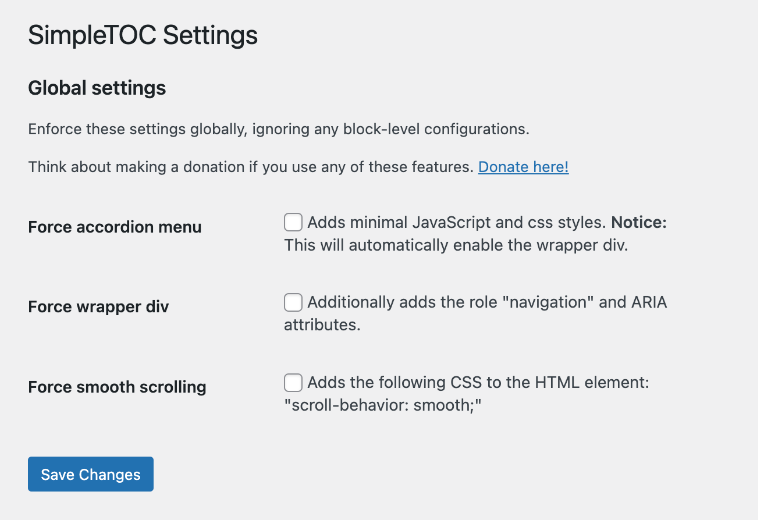
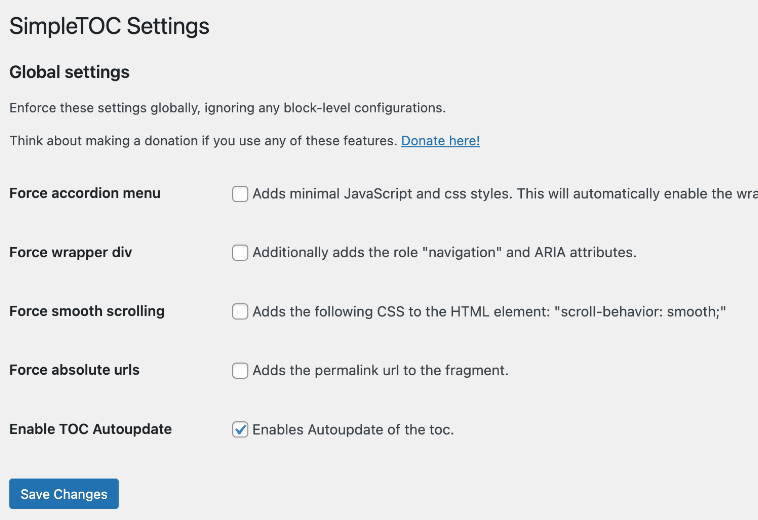
Added automatic refresh option

diff --git a/build/index.js b/build/index.js
@@ -1,1 +1,1 @@
-(()=>{"use strict";var e={n:t=>{var l=t&&t.__esModule?()=>t.default:()=>t;return e.d(l,{a:l}),l},d:(t,l)=>{for(var o in l)e.o(l,o)&&!e.o(t,o)&&Object.defineProperty(t,o,{enumerable:!0,get:l[o]})},o:(e,t)=>Object.prototype.hasOwnProperty.call(e,t)};const t=window.wp.element,l=window.wp.blocks,o=JSON.parse('{"$schema":"https://json.schemastore.org/block.json","apiVersion":2,"name":"simpletoc/toc","version":"6.3.0","title":"SimpleTOC","category":"layout","icon":"<svg clip-rule=\'evenodd\' fill-rule=\'evenodd\' stroke-linejoin=\'round\' stroke-miterlimit=\'2\' viewBox=\'0 0 500 500\' xmlns=\'http://www.w3.org/2000/svg\'><path d=\'m365.983 78.248c2.72-32.415 29.921-57.908 63.029-57.908 34.91 0 63.253 28.342 63.253 63.252s-28.343 63.252-63.253 63.252v269.582c0 25.232-20.485 45.718-45.718 45.718h-313.62c-25.233 0-45.719-20.486-45.719-45.718v-292.46c0-25.233 20.486-45.718 45.719-45.718z\' fill=\'#070D0D\'/><g fill=\'#fff\'><path d=\'m423.898 112.744v-24.188h-24.008v-10.108h24.008v-24.008h10.229v24.008h24.008v10.108h-24.008v24.188z\'/><path d=\'m120.04 403.105c-16.883 0-30.511-13.719-30.511-30.714 0-16.79 13.628-30.714 30.511-30.714 16.679 0 30.511 13.924 30.511 30.714 0 16.995-13.832 30.714-30.511 30.714z\'/><path d=\'m170.891 362.153h183.063v20.476h-183.063z\'/><path d=\'m120.04 300.725c-16.883 0-30.511-13.719-30.511-30.714 0-16.79 13.628-30.714 30.511-30.714 16.679 0 30.511 13.924 30.511 30.714 0 16.995-13.832 30.714-30.511 30.714z\'/><path d=\'m170.891 259.773h183.063v20.476h-183.063z\'/><path d=\'m120.04 198.345c-16.883 0-30.511-13.719-30.511-30.714 0-16.791 13.628-30.714 30.511-30.714 16.679 0 30.511 13.923 30.511 30.714 0 16.995-13.832 30.714-30.511 30.714z\'/><path d=\'m170.891 157.393h183.063v20.476h-183.063z\'/></g></svg>","keywords":["TOC","Table of Contents","SimpleTOC","Index"],"supports":{"align":["wide","full"]},"description":"Adds a Table of Contents.","attributes":{"no_title":{"type":"boolean","default":false},"title_level":{"type":"integer","default":2},"title_text":{"type":"string"},"use_ol":{"type":"boolean","default":false},"remove_indent":{"type":"boolean","default":false},"add_smooth":{"type":"boolean","default":false},"use_absolute_urls":{"type":"boolean","default":false},"max_level":{"type":"integer","default":6},"min_level":{"type":"integer","default":1},"updated":{"type":"integer"},"accordion":{"type":"boolean","default":false},"wrapper":{"type":"boolean","default":false},"autoupdate":{"type":"boolean","default":true}},"textdomain":"simpletoc","editorScript":"file:index.js","editorStyle":"file:index.css"}'),n=window.React,a=window.wp.i18n,i=window.wp.blockEditor,c=window.wp.editor,r=window.wp.serverSideRender;var s=e.n(r);const m=window.wp.primitives,d=(0,n.createElement)(m.SVG,{xmlns:"http://www.w3.org/2000/svg",viewBox:"0 0 24 24"},(0,n.createElement)(m.Path,{d:"M11.1 15.8H20v-1.5h-8.9v1.5zm0-8.6v1.5H20V7.2h-8.9zM6 13c-1.1 0-2 .9-2 2s.9 2 2 2 2-.9 2-2-.9-2-2-2zm0-7c-1.1 0-2 .9-2 2s.9 2 2 2 2-.9 2-2-.9-2-2-2z"})),v=(0,n.createElement)(m.SVG,{xmlns:"http://www.w3.org/2000/svg",viewBox:"0 0 24 24"},(0,n.createElement)(m.Path,{d:"M11.1 15.8H20v-1.5h-8.9v1.5zm0-8.6v1.5H20V7.2h-8.9zM5 6.7V10h1V5.3L3.8 6l.4 1 .8-.3zm-.4 5.7c-.3.1-.5.2-.7.3l.1 1.1c.2-.2.5-.4.8-.5.3-.1.6 0 .7.1.2.3 0 .8-.2 1.1-.5.8-.9 1.6-1.4 2.5h2.7v-1h-1c.3-.6.8-1.4.9-2.1.1-.3 0-.8-.2-1.1-.5-.6-1.3-.5-1.7-.4z"})),h=(0,n.createElement)(m.SVG,{xmlns:"http://www.w3.org/2000/svg",viewBox:"0 0 24 24"},(0,n.createElement)(m.Path,{d:"M4 7.2v1.5h16V7.2H4zm8 8.6h8v-1.5h-8v1.5zm-4-4.6l-4 4 4 4 1-1-3-3 3-3-1-1z"})),u=(0,n.createElement)(m.SVG,{xmlns:"http://www.w3.org/2000/svg",viewBox:"0 0 24 24"},(0,n.createElement)(m.Path,{d:"M4 7.2v1.5h16V7.2H4zm8 8.6h8v-1.5h-8v1.5zm-8-3.5l3 3-3 3 1 1 4-4-4-4-1 1z"})),p=(0,n.createElement)(m.SVG,{xmlns:"http://www.w3.org/2000/svg",viewBox:"0 0 24 24"},(0,n.createElement)(m.Path,{d:"m11.3 17.2-5-5c-.1-.1-.1-.3 0-.4l2.3-2.3-1.1-1-2.3 2.3c-.7.7-.7 1.8 0 2.5l5 5H7.5v1.5h5.3v-5.2h-1.5v2.6zm7.5-6.4-5-5h2.7V4.2h-5.2v5.2h1.5V6.8l5 5c.1.1.1.3 0 .4l-2.3 2.3 1.1 1.1 2.3-2.3c.6-.7.6-1.9-.1-2.5z"})),_=window.wp.components;function g({level:e,isPressed:l=!1}){const o={0:"M18.3 4H9.9v-.1l-.9.2c-2.3.4-4 2.4-4 4.8s1.7 4.4 4 4.8l.7.1V20h1.5V5.5h2.9V20h1.5V5.5h2.7V4z",1:"M9 5h2v10H9v-4H5v4H3V5h2v4h4V5zm6.6 0c-.6.9-1.5 1.7-2.6 2v1h2v7h2V5h-1.4z",2:"M7 5h2v10H7v-4H3v4H1V5h2v4h4V5zm8 8c.5-.4.6-.6 1.1-1.1.4-.4.8-.8 1.2-1.3.3-.4.6-.8.9-1.3.2-.4.3-.8.3-1.3 0-.4-.1-.9-.3-1.3-.2-.4-.4-.7-.8-1-.3-.3-.7-.5-1.2-.6-.5-.2-1-.2-1.5-.2-.4 0-.7 0-1.1.1-.3.1-.7.2-1 .3-.3.1-.6.3-.9.5-.3.2-.6.4-.8.7l1.2 1.2c.3-.3.6-.5 1-.7.4-.2.7-.3 1.2-.3s.9.1 1.3.4c.3.3.5.7.5 1.1 0 .4-.1.8-.4 1.1-.3.5-.6.9-1 1.2-.4.4-1 .9-1.6 1.4-.6.5-1.4 1.1-2.2 1.6V15h8v-2H15z",3:"M12.1 12.2c.4.3.8.5 1.2.7.4.2.9.3 1.4.3.5 0 1-.1 1.4-.3.3-.1.5-.5.5-.8 0-.2 0-.4-.1-.6-.1-.2-.3-.3-.5-.4-.3-.1-.7-.2-1-.3-.5-.1-1-.1-1.5-.1V9.1c.7.1 1.5-.1 2.2-.4.4-.2.6-.5.6-.9 0-.3-.1-.6-.4-.8-.3-.2-.7-.3-1.1-.3-.4 0-.8.1-1.1.3-.4.2-.7.4-1.1.6l-1.2-1.4c.5-.4 1.1-.7 1.6-.9.5-.2 1.2-.3 1.8-.3.5 0 1 .1 1.6.2.4.1.8.3 1.2.5.3.2.6.5.8.8.2.3.3.7.3 1.1 0 .5-.2.9-.5 1.3-.4.4-.9.7-1.5.9v.1c.6.1 1.2.4 1.6.8.4.4.7.9.7 1.5 0 .4-.1.8-.3 1.2-.2.4-.5.7-.9.9-.4.3-.9.4-1.3.5-.5.1-1 .2-1.6.2-.8 0-1.6-.1-2.3-.4-.6-.2-1.1-.6-1.6-1l1.1-1.4zM7 9H3V5H1v10h2v-4h4v4h2V5H7v4z",4:"M9 15H7v-4H3v4H1V5h2v4h4V5h2v10zm10-2h-1v2h-2v-2h-5v-2l4-6h3v6h1v2zm-3-2V7l-2.8 4H16z",5:"M12.1 12.2c.4.3.7.5 1.1.7.4.2.9.3 1.3.3.5 0 1-.1 1.4-.4.4-.3.6-.7.6-1.1 0-.4-.2-.9-.6-1.1-.4-.3-.9-.4-1.4-.4H14c-.1 0-.3 0-.4.1l-.4.1-.5.2-1-.6.3-5h6.4v1.9h-4.3L14 8.8c.2-.1.5-.1.7-.2.2 0 .5-.1.7-.1.5 0 .9.1 1.4.2.4.1.8.3 1.1.6.3.2.6.6.8.9.2.4.3.9.3 1.4 0 .5-.1 1-.3 1.4-.2.4-.5.8-.9 1.1-.4.3-.8.5-1.3.7-.5.2-1 .3-1.5.3-.8 0-1.6-.1-2.3-.4-.6-.2-1.1-.6-1.6-1-.1-.1 1-1.5 1-1.5zM9 15H7v-4H3v4H1V5h2v4h4V5h2v10z",6:"M9 15H7v-4H3v4H1V5h2v4h4V5h2v10zm8.6-7.5c-.2-.2-.5-.4-.8-.5-.6-.2-1.3-.2-1.9 0-.3.1-.6.3-.8.5l-.6.9c-.2.5-.2.9-.2 1.4.4-.3.8-.6 1.2-.8.4-.2.8-.3 1.3-.3.4 0 .8 0 1.2.2.4.1.7.3 1 .6.3.3.5.6.7.9.2.4.3.8.3 1.3s-.1.9-.3 1.4c-.2.4-.5.7-.8 1-.4.3-.8.5-1.2.6-1 .3-2 .3-3 0-.5-.2-1-.5-1.4-.9-.4-.4-.8-.9-1-1.5-.2-.6-.3-1.3-.3-2.1s.1-1.6.4-2.3c.2-.6.6-1.2 1-1.6.4-.4.9-.7 1.4-.9.6-.3 1.1-.4 1.7-.4.7 0 1.4.1 2 .3.5.2 1 .5 1.4.8 0 .1-1.3 1.4-1.3 1.4zm-2.4 5.8c.2 0 .4 0 .6-.1.2 0 .4-.1.5-.2.1-.1.3-.3.4-.5.1-.2.1-.5.1-.7 0-.4-.1-.8-.4-1.1-.3-.2-.7-.3-1.1-.3-.3 0-.7.1-1 .2-.4.2-.7.4-1 .7 0 .3.1.7.3 1 .1.2.3.4.4.6.2.1.3.3.5.3.2.1.5.2.7.1z"};return o.hasOwnProperty(e)?(0,t.createElement)(_.SVG,{width:"24",height:"24",viewBox:"0 0 20 20",xmlns:"http://www.w3.org/2000/svg",isPressed:l},(0,t.createElement)(_.Path,{d:o[e]})):null}const w=[0,1,2,3,4,5,6],b={className:"block-library-heading-level-dropdown"};function E({selectedLevel:e,onChange:l}){return(0,t.createElement)(_.ToolbarDropdownMenu,{popoverProps:b,icon:(0,t.createElement)(g,{level:e}),label:(0,a.__)("Change heading level tag"),controls:w.map((o=>{{const n=o===e;return{icon:(0,t.createElement)(g,{level:o,isPressed:n}),isActive:n,onClick(){l(o)}}}}))})}const f=window.wp.data,z=(0,t.createElement)("svg",{clipRule:"evenodd",fillRule:"evenodd",strokeLinejoin:"round",strokeMiterlimit:"2",viewBox:"0 0 500 500",xmlns:"http://www.w3.org/2000/svg"},(0,t.createElement)("path",{d:"m365.983 78.248c2.72-32.415 29.921-57.908 63.029-57.908 34.91 0 63.253 28.342 63.253 63.252s-28.343 63.252-63.253 63.252v269.582c0 25.232-20.485 45.718-45.718 45.718h-313.62c-25.233 0-45.719-20.486-45.719-45.718v-292.46c0-25.233 20.486-45.718 45.719-45.718zm-245.943 324.857c-16.883 0-30.511-13.719-30.511-30.714 0-16.79 13.628-30.714 30.511-30.714 16.679 0 30.511 13.924 30.511 30.714 0 16.995-13.832 30.714-30.511 30.714zm50.851-40.952h183.063v20.476h-183.063zm-50.851-61.428c-16.883 0-30.511-13.719-30.511-30.714 0-16.79 13.628-30.714 30.511-30.714 16.679 0 30.511 13.924 30.511 30.714 0 16.995-13.832 30.714-30.511 30.714zm50.851-40.952h183.063v20.476h-183.063zm-50.851-61.428c-16.883 0-30.511-13.719-30.511-30.714 0-16.791 13.628-30.714 30.511-30.714 16.679 0 30.511 13.923 30.511 30.714 0 16.995-13.832 30.714-30.511 30.714zm50.851-40.952h183.063v20.476h-183.063zm253.007-44.649v-24.188h-24.008v-10.108h24.008v-24.008h10.229v24.008h24.008v10.108h-24.008v24.188z"}));(0,l.registerBlockType)(o,{icon:z,edit:function({attributes:e,setAttributes:t}){const l=(0,i.useBlockProps)(),{autoupdate:o}=e,{returnisSaving:r,returnisSavingNonPostEntityChanges:m}=(0,f.useSelect)((e=>{const{isSavingPost:t,isSavingNonPostEntityChanges:l}=e(c.store);return{returnisSaving:t(),returnisSavingNonPostEntityChanges:l()}})),g=(0,n.createElement)(i.BlockControls,{group:"block"},!(e.no_title||e.accordion)&&(0,n.createElement)(E,{selectedLevel:e.title_level,onChange:e=>t({title_level:Number(e)})}),(0,n.createElement)(_.ToolbarButton,{icon:d,title:(0,a.__)("Convert to unordered list","simpletoc"),describedBy:(0,a.__)("Convert to unordered list","simpletoc"),isActive:!1===e.use_ol,onClick:()=>{t({use_ol:!1})}}),(0,n.createElement)(_.ToolbarButton,{icon:v,title:(0,a.__)("Convert to ordered list","simpletoc"),describedBy:(0,a.__)("Convert to ordered list","simpletoc"),isActive:!0===e.use_ol,onClick:()=>{t({use_ol:!0})}}),(0,n.createElement)(_.ToolbarButton,{icon:h,title:(0,a.__)("Indent list","simpletoc"),describedBy:(0,a.__)("Indent list","simpletoc"),isActive:!0===e.remove_indent,onClick:()=>{t({remove_indent:!0})}}),(0,n.createElement)(_.ToolbarButton,{icon:u,title:(0,a.__)("Outdent list","simpletoc"),describedBy:(0,a.__)("Outdent list","simpletoc"),isActive:!1===e.remove_indent,onClick:()=>{t({remove_indent:!1})}}),!e.autoupdate&&(0,n.createElement)(_.ToolbarButton,{icon:p,label:(0,a.__)("Update table of contents","simpletoc"),onClick:()=>t({updated:Date.now()})})),w=(0,n.createElement)(i.InspectorControls,null,(0,n.createElement)(_.Panel,null,(0,n.createElement)(_.PanelBody,null,!e.no_title&&(0,n.createElement)(_.PanelRow,null,(0,n.createElement)(_.TextControl,{label:(0,a.__)("Heading Text","simpletoc"),help:(0,a.__)("Set the heading text of the block.","simpletoc")+" "+(0,a.__)("Default value","simpletoc")+": "+(0,a.__)("Table of Contents","simpletoc"),value:e.title_text,onChange:e=>t({title_text:e||(0,a.__)("Table of Contents","simpletoc")})})),(0,n.createElement)(_.PanelRow,null,(0,n.createElement)(_.ToggleControl,{label:(0,a.__)("Remove heading","simpletoc"),checked:e.no_title,onChange:()=>t({no_title:!e.no_title})})),(0,n.createElement)(_.PanelRow,null,(0,n.createElement)(_.SelectControl,{label:(0,a.__)("Minimum level","simpletoc"),help:(0,a.__)("Minimum depth of the headings.","simpletoc"),value:e.min_level,options:[{label:(0,a.__)("Including","simpletoc")+" H6",value:"6"},{label:(0,a.__)("Including","simpletoc")+" H5",value:"5"},{label:(0,a.__)("Including","simpletoc")+" H4",value:"4"},{label:(0,a.__)("Including","simpletoc")+" H3",value:"3"},{label:(0,a.__)("Including","simpletoc")+" H2",value:"2"},{label:(0,a.__)("Including","simpletoc")+" H1 ("+(0,a.__)("default","simpletoc")+")",value:"1"}],onChange:e=>t({min_level:Number(e)})})),(0,n.createElement)(_.PanelRow,null,(0,n.createElement)(_.SelectControl,{label:(0,a.__)("Maximum level","simpletoc"),help:(0,a.__)("Maximum depth of the headings.","simpletoc"),value:e.max_level,options:[{label:(0,a.__)("Including","simpletoc")+" H6 ("+(0,a.__)("default","simpletoc")+")",value:"6"},{label:(0,a.__)("Including","simpletoc")+" H5",value:"5"},{label:(0,a.__)("Including","simpletoc")+" H4",value:"4"},{label:(0,a.__)("Including","simpletoc")+" H3",value:"3"},{label:(0,a.__)("Including","simpletoc")+" H2",value:"2"},{label:(0,a.__)("Including","simpletoc")+" H1",value:"1"}],onChange:e=>t({max_level:Number(e)})})))),(0,n.createElement)(_.Panel,null,(0,n.createElement)(_.PanelBody,{title:(0,a.__)("Advanced Features","simpletoc"),icon:"settings",initialOpen:!1},(0,n.createElement)(_.PanelRow,null,(0,n.createElement)("div",{style:{marginBottom:"1em",border:"1px solid rgba(0, 0, 0, 0.05)",padding:"0.5em",backgroundColor:"#f7f7f7"}},(0,n.createElement)("p",null,(0,n.createElement)("strong",null,(0,a.__)("Think about making a donation if you use any of these features.","simpletoc"))),(0,n.createElement)(_.ExternalLink,{href:"https://marc.tv/out/donate"},(0,a.__)("Donate here!","simpletoc")))),(0,n.createElement)(_.PanelRow,null,(0,n.createElement)(_.ToggleControl,{label:(0,a.__)("Hide in accordion menu","simpletoc"),help:(0,a.__)("Adds minimal JavaScript and css styles.","simpletoc"),checked:e.accordion,onChange:()=>t({accordion:!e.accordion})})),(0,n.createElement)(_.PanelRow,null,(0,n.createElement)(_.ToggleControl,{label:(0,a.__)("Smooth scrolling support","simpletoc"),help:(0,a.__)('Adds the following CSS to the HTML element: "scroll-behavior: smooth;"',"simpletoc"),checked:e.add_smooth,onChange:()=>t({add_smooth:!e.add_smooth})})),(0,n.createElement)(_.PanelRow,null,(0,n.createElement)(_.ToggleControl,{label:(0,a.__)("Use absolute urls","simpletoc"),help:(0,a.__)("Adds the permalink url to the fragment.","simpletoc"),checked:e.use_absolute_urls,onChange:()=>t({use_absolute_urls:!e.use_absolute_urls})})),(0,n.createElement)(_.PanelRow,null,(0,n.createElement)(_.ToggleControl,{label:(0,a.__)("Wrapper div","simpletoc"),help:(0,a.__)('Additionally adds the role "navigation" and ARIA attributes.',"simpletoc"),checked:e.wrapper,onChange:()=>t({wrapper:!e.wrapper})})),(0,n.createElement)(_.PanelRow,null,(0,n.createElement)(_.ToggleControl,{label:(0,a.__)("Autoupdate","simpletoc"),help:(0,a.__)("Enables the auto refresh of the toc.","simpletoc"),checked:e.autoupdate,onChange:()=>t({autoupdate:!e.autoupdate})})))));return(0,n.createElement)("div",{...l},g,w,o&&(r||m)?(0,n.createElement)(_.Spinner,null):(0,n.createElement)(s(),{block:"simpletoc/toc",attributes:e}))},save:function(){return null}})})();
+(()=>{"use strict";var e={n:t=>{var l=t&&t.__esModule?()=>t.default:()=>t;return e.d(l,{a:l}),l},d:(t,l)=>{for(var o in l)e.o(l,o)&&!e.o(t,o)&&Object.defineProperty(t,o,{enumerable:!0,get:l[o]})},o:(e,t)=>Object.prototype.hasOwnProperty.call(e,t)};const t=window.wp.element,l=window.wp.blocks,o=JSON.parse('{"$schema":"https://json.schemastore.org/block.json","apiVersion":2,"name":"simpletoc/toc","version":"6.3.0","title":"SimpleTOC","category":"layout","icon":"<svg clip-rule=\'evenodd\' fill-rule=\'evenodd\' stroke-linejoin=\'round\' stroke-miterlimit=\'2\' viewBox=\'0 0 500 500\' xmlns=\'http://www.w3.org/2000/svg\'><path d=\'m365.983 78.248c2.72-32.415 29.921-57.908 63.029-57.908 34.91 0 63.253 28.342 63.253 63.252s-28.343 63.252-63.253 63.252v269.582c0 25.232-20.485 45.718-45.718 45.718h-313.62c-25.233 0-45.719-20.486-45.719-45.718v-292.46c0-25.233 20.486-45.718 45.719-45.718z\' fill=\'#070D0D\'/><g fill=\'#fff\'><path d=\'m423.898 112.744v-24.188h-24.008v-10.108h24.008v-24.008h10.229v24.008h24.008v10.108h-24.008v24.188z\'/><path d=\'m120.04 403.105c-16.883 0-30.511-13.719-30.511-30.714 0-16.79 13.628-30.714 30.511-30.714 16.679 0 30.511 13.924 30.511 30.714 0 16.995-13.832 30.714-30.511 30.714z\'/><path d=\'m170.891 362.153h183.063v20.476h-183.063z\'/><path d=\'m120.04 300.725c-16.883 0-30.511-13.719-30.511-30.714 0-16.79 13.628-30.714 30.511-30.714 16.679 0 30.511 13.924 30.511 30.714 0 16.995-13.832 30.714-30.511 30.714z\'/><path d=\'m170.891 259.773h183.063v20.476h-183.063z\'/><path d=\'m120.04 198.345c-16.883 0-30.511-13.719-30.511-30.714 0-16.791 13.628-30.714 30.511-30.714 16.679 0 30.511 13.923 30.511 30.714 0 16.995-13.832 30.714-30.511 30.714z\'/><path d=\'m170.891 157.393h183.063v20.476h-183.063z\'/></g></svg>","keywords":["TOC","Table of Contents","SimpleTOC","Index"],"supports":{"align":["wide","full"]},"description":"Adds a Table of Contents.","attributes":{"no_title":{"type":"boolean","default":false},"title_level":{"type":"integer","default":2},"title_text":{"type":"string"},"use_ol":{"type":"boolean","default":false},"remove_indent":{"type":"boolean","default":false},"add_smooth":{"type":"boolean","default":false},"use_absolute_urls":{"type":"boolean","default":false},"max_level":{"type":"integer","default":6},"min_level":{"type":"integer","default":1},"updated":{"type":"integer"},"accordion":{"type":"boolean","default":false},"wrapper":{"type":"boolean","default":false},"autoupdate":{"type":"boolean","default":true}},"textdomain":"simpletoc","editorScript":"file:index.js","editorStyle":"file:index.css"}'),n=window.React,a=window.wp.i18n,i=window.wp.blockEditor,c=window.wp.editor,r=window.wp.serverSideRender;var s=e.n(r);const m=window.wp.primitives,d=(0,n.createElement)(m.SVG,{xmlns:"http://www.w3.org/2000/svg",viewBox:"0 0 24 24"},(0,n.createElement)(m.Path,{d:"M11.1 15.8H20v-1.5h-8.9v1.5zm0-8.6v1.5H20V7.2h-8.9zM6 13c-1.1 0-2 .9-2 2s.9 2 2 2 2-.9 2-2-.9-2-2-2zm0-7c-1.1 0-2 .9-2 2s.9 2 2 2 2-.9 2-2-.9-2-2-2z"})),v=(0,n.createElement)(m.SVG,{xmlns:"http://www.w3.org/2000/svg",viewBox:"0 0 24 24"},(0,n.createElement)(m.Path,{d:"M11.1 15.8H20v-1.5h-8.9v1.5zm0-8.6v1.5H20V7.2h-8.9zM5 6.7V10h1V5.3L3.8 6l.4 1 .8-.3zm-.4 5.7c-.3.1-.5.2-.7.3l.1 1.1c.2-.2.5-.4.8-.5.3-.1.6 0 .7.1.2.3 0 .8-.2 1.1-.5.8-.9 1.6-1.4 2.5h2.7v-1h-1c.3-.6.8-1.4.9-2.1.1-.3 0-.8-.2-1.1-.5-.6-1.3-.5-1.7-.4z"})),h=(0,n.createElement)(m.SVG,{xmlns:"http://www.w3.org/2000/svg",viewBox:"0 0 24 24"},(0,n.createElement)(m.Path,{d:"M4 7.2v1.5h16V7.2H4zm8 8.6h8v-1.5h-8v1.5zm-4-4.6l-4 4 4 4 1-1-3-3 3-3-1-1z"})),u=(0,n.createElement)(m.SVG,{xmlns:"http://www.w3.org/2000/svg",viewBox:"0 0 24 24"},(0,n.createElement)(m.Path,{d:"M4 7.2v1.5h16V7.2H4zm8 8.6h8v-1.5h-8v1.5zm-8-3.5l3 3-3 3 1 1 4-4-4-4-1 1z"})),p=(0,n.createElement)(m.SVG,{xmlns:"http://www.w3.org/2000/svg",viewBox:"0 0 24 24"},(0,n.createElement)(m.Path,{d:"m11.3 17.2-5-5c-.1-.1-.1-.3 0-.4l2.3-2.3-1.1-1-2.3 2.3c-.7.7-.7 1.8 0 2.5l5 5H7.5v1.5h5.3v-5.2h-1.5v2.6zm7.5-6.4-5-5h2.7V4.2h-5.2v5.2h1.5V6.8l5 5c.1.1.1.3 0 .4l-2.3 2.3 1.1 1.1 2.3-2.3c.6-.7.6-1.9-.1-2.5z"})),_=window.wp.components;function g({level:e,isPressed:l=!1}){const o={0:"M18.3 4H9.9v-.1l-.9.2c-2.3.4-4 2.4-4 4.8s1.7 4.4 4 4.8l.7.1V20h1.5V5.5h2.9V20h1.5V5.5h2.7V4z",1:"M9 5h2v10H9v-4H5v4H3V5h2v4h4V5zm6.6 0c-.6.9-1.5 1.7-2.6 2v1h2v7h2V5h-1.4z",2:"M7 5h2v10H7v-4H3v4H1V5h2v4h4V5zm8 8c.5-.4.6-.6 1.1-1.1.4-.4.8-.8 1.2-1.3.3-.4.6-.8.9-1.3.2-.4.3-.8.3-1.3 0-.4-.1-.9-.3-1.3-.2-.4-.4-.7-.8-1-.3-.3-.7-.5-1.2-.6-.5-.2-1-.2-1.5-.2-.4 0-.7 0-1.1.1-.3.1-.7.2-1 .3-.3.1-.6.3-.9.5-.3.2-.6.4-.8.7l1.2 1.2c.3-.3.6-.5 1-.7.4-.2.7-.3 1.2-.3s.9.1 1.3.4c.3.3.5.7.5 1.1 0 .4-.1.8-.4 1.1-.3.5-.6.9-1 1.2-.4.4-1 .9-1.6 1.4-.6.5-1.4 1.1-2.2 1.6V15h8v-2H15z",3:"M12.1 12.2c.4.3.8.5 1.2.7.4.2.9.3 1.4.3.5 0 1-.1 1.4-.3.3-.1.5-.5.5-.8 0-.2 0-.4-.1-.6-.1-.2-.3-.3-.5-.4-.3-.1-.7-.2-1-.3-.5-.1-1-.1-1.5-.1V9.1c.7.1 1.5-.1 2.2-.4.4-.2.6-.5.6-.9 0-.3-.1-.6-.4-.8-.3-.2-.7-.3-1.1-.3-.4 0-.8.1-1.1.3-.4.2-.7.4-1.1.6l-1.2-1.4c.5-.4 1.1-.7 1.6-.9.5-.2 1.2-.3 1.8-.3.5 0 1 .1 1.6.2.4.1.8.3 1.2.5.3.2.6.5.8.8.2.3.3.7.3 1.1 0 .5-.2.9-.5 1.3-.4.4-.9.7-1.5.9v.1c.6.1 1.2.4 1.6.8.4.4.7.9.7 1.5 0 .4-.1.8-.3 1.2-.2.4-.5.7-.9.9-.4.3-.9.4-1.3.5-.5.1-1 .2-1.6.2-.8 0-1.6-.1-2.3-.4-.6-.2-1.1-.6-1.6-1l1.1-1.4zM7 9H3V5H1v10h2v-4h4v4h2V5H7v4z",4:"M9 15H7v-4H3v4H1V5h2v4h4V5h2v10zm10-2h-1v2h-2v-2h-5v-2l4-6h3v6h1v2zm-3-2V7l-2.8 4H16z",5:"M12.1 12.2c.4.3.7.5 1.1.7.4.2.9.3 1.3.3.5 0 1-.1 1.4-.4.4-.3.6-.7.6-1.1 0-.4-.2-.9-.6-1.1-.4-.3-.9-.4-1.4-.4H14c-.1 0-.3 0-.4.1l-.4.1-.5.2-1-.6.3-5h6.4v1.9h-4.3L14 8.8c.2-.1.5-.1.7-.2.2 0 .5-.1.7-.1.5 0 .9.1 1.4.2.4.1.8.3 1.1.6.3.2.6.6.8.9.2.4.3.9.3 1.4 0 .5-.1 1-.3 1.4-.2.4-.5.8-.9 1.1-.4.3-.8.5-1.3.7-.5.2-1 .3-1.5.3-.8 0-1.6-.1-2.3-.4-.6-.2-1.1-.6-1.6-1-.1-.1 1-1.5 1-1.5zM9 15H7v-4H3v4H1V5h2v4h4V5h2v10z",6:"M9 15H7v-4H3v4H1V5h2v4h4V5h2v10zm8.6-7.5c-.2-.2-.5-.4-.8-.5-.6-.2-1.3-.2-1.9 0-.3.1-.6.3-.8.5l-.6.9c-.2.5-.2.9-.2 1.4.4-.3.8-.6 1.2-.8.4-.2.8-.3 1.3-.3.4 0 .8 0 1.2.2.4.1.7.3 1 .6.3.3.5.6.7.9.2.4.3.8.3 1.3s-.1.9-.3 1.4c-.2.4-.5.7-.8 1-.4.3-.8.5-1.2.6-1 .3-2 .3-3 0-.5-.2-1-.5-1.4-.9-.4-.4-.8-.9-1-1.5-.2-.6-.3-1.3-.3-2.1s.1-1.6.4-2.3c.2-.6.6-1.2 1-1.6.4-.4.9-.7 1.4-.9.6-.3 1.1-.4 1.7-.4.7 0 1.4.1 2 .3.5.2 1 .5 1.4.8 0 .1-1.3 1.4-1.3 1.4zm-2.4 5.8c.2 0 .4 0 .6-.1.2 0 .4-.1.5-.2.1-.1.3-.3.4-.5.1-.2.1-.5.1-.7 0-.4-.1-.8-.4-1.1-.3-.2-.7-.3-1.1-.3-.3 0-.7.1-1 .2-.4.2-.7.4-1 .7 0 .3.1.7.3 1 .1.2.3.4.4.6.2.1.3.3.5.3.2.1.5.2.7.1z"};return o.hasOwnProperty(e)?(0,t.createElement)(_.SVG,{width:"24",height:"24",viewBox:"0 0 20 20",xmlns:"http://www.w3.org/2000/svg",isPressed:l},(0,t.createElement)(_.Path,{d:o[e]})):null}const w=[0,1,2,3,4,5,6],b={className:"block-library-heading-level-dropdown"};function E({selectedLevel:e,onChange:l}){return(0,t.createElement)(_.ToolbarDropdownMenu,{popoverProps:b,icon:(0,t.createElement)(g,{level:e}),label:(0,a.__)("Change heading level tag"),controls:w.map((o=>{{const n=o===e;return{icon:(0,t.createElement)(g,{level:o,isPressed:n}),isActive:n,onClick(){l(o)}}}}))})}const f=window.wp.data,z=(0,t.createElement)("svg",{clipRule:"evenodd",fillRule:"evenodd",strokeLinejoin:"round",strokeMiterlimit:"2",viewBox:"0 0 500 500",xmlns:"http://www.w3.org/2000/svg"},(0,t.createElement)("path",{d:"m365.983 78.248c2.72-32.415 29.921-57.908 63.029-57.908 34.91 0 63.253 28.342 63.253 63.252s-28.343 63.252-63.253 63.252v269.582c0 25.232-20.485 45.718-45.718 45.718h-313.62c-25.233 0-45.719-20.486-45.719-45.718v-292.46c0-25.233 20.486-45.718 45.719-45.718zm-245.943 324.857c-16.883 0-30.511-13.719-30.511-30.714 0-16.79 13.628-30.714 30.511-30.714 16.679 0 30.511 13.924 30.511 30.714 0 16.995-13.832 30.714-30.511 30.714zm50.851-40.952h183.063v20.476h-183.063zm-50.851-61.428c-16.883 0-30.511-13.719-30.511-30.714 0-16.79 13.628-30.714 30.511-30.714 16.679 0 30.511 13.924 30.511 30.714 0 16.995-13.832 30.714-30.511 30.714zm50.851-40.952h183.063v20.476h-183.063zm-50.851-61.428c-16.883 0-30.511-13.719-30.511-30.714 0-16.791 13.628-30.714 30.511-30.714 16.679 0 30.511 13.923 30.511 30.714 0 16.995-13.832 30.714-30.511 30.714zm50.851-40.952h183.063v20.476h-183.063zm253.007-44.649v-24.188h-24.008v-10.108h24.008v-24.008h10.229v24.008h24.008v10.108h-24.008v24.188z"}));(0,l.registerBlockType)(o,{icon:z,edit:function({attributes:e,setAttributes:t}){const l=(0,i.useBlockProps)(),o=(0,f.useSelect)((e=>{const t=e("core").getSite()?.simpletoc_autoupdate_enabled;return Boolean(t)}),[]),{autoupdate:r}=e,{returnisSaving:m,returnisSavingNonPostEntityChanges:g}=(0,f.useSelect)((e=>{const{isSavingPost:t,isSavingNonPostEntityChanges:l}=e(c.store);return{returnisSaving:t(),returnisSavingNonPostEntityChanges:l()}})),w=(0,n.createElement)(i.BlockControls,{group:"block"},!(e.no_title||e.accordion)&&(0,n.createElement)(E,{selectedLevel:e.title_level,onChange:e=>t({title_level:Number(e)})}),(0,n.createElement)(_.ToolbarButton,{icon:d,title:(0,a.__)("Convert to unordered list","simpletoc"),describedBy:(0,a.__)("Convert to unordered list","simpletoc"),isActive:!1===e.use_ol,onClick:()=>{t({use_ol:!1})}}),(0,n.createElement)(_.ToolbarButton,{icon:v,title:(0,a.__)("Convert to ordered list","simpletoc"),describedBy:(0,a.__)("Convert to ordered list","simpletoc"),isActive:!0===e.use_ol,onClick:()=>{t({use_ol:!0})}}),(0,n.createElement)(_.ToolbarButton,{icon:h,title:(0,a.__)("Indent list","simpletoc"),describedBy:(0,a.__)("Indent list","simpletoc"),isActive:!0===e.remove_indent,onClick:()=>{t({remove_indent:!0})}}),(0,n.createElement)(_.ToolbarButton,{icon:u,title:(0,a.__)("Outdent list","simpletoc"),describedBy:(0,a.__)("Outdent list","simpletoc"),isActive:!1===e.remove_indent,onClick:()=>{t({remove_indent:!1})}}),!e.autoupdate||!o&&(0,n.createElement)(_.ToolbarButton,{icon:p,label:(0,a.__)("Update table of contents","simpletoc"),onClick:()=>t({updated:Date.now()})})),b=(0,n.createElement)(i.InspectorControls,null,(0,n.createElement)(_.Panel,null,(0,n.createElement)(_.PanelBody,null,!e.no_title&&(0,n.createElement)(_.PanelRow,null,(0,n.createElement)(_.TextControl,{label:(0,a.__)("Heading Text","simpletoc"),help:(0,a.__)("Set the heading text of the block.","simpletoc")+" "+(0,a.__)("Default value","simpletoc")+": "+(0,a.__)("Table of Contents","simpletoc"),value:e.title_text,onChange:e=>t({title_text:e||(0,a.__)("Table of Contents","simpletoc")})})),(0,n.createElement)(_.PanelRow,null,(0,n.createElement)(_.ToggleControl,{label:(0,a.__)("Remove heading","simpletoc"),checked:e.no_title,onChange:()=>t({no_title:!e.no_title})})),(0,n.createElement)(_.PanelRow,null,(0,n.createElement)(_.SelectControl,{label:(0,a.__)("Minimum level","simpletoc"),help:(0,a.__)("Minimum depth of the headings.","simpletoc"),value:e.min_level,options:[{label:(0,a.__)("Including","simpletoc")+" H6",value:"6"},{label:(0,a.__)("Including","simpletoc")+" H5",value:"5"},{label:(0,a.__)("Including","simpletoc")+" H4",value:"4"},{label:(0,a.__)("Including","simpletoc")+" H3",value:"3"},{label:(0,a.__)("Including","simpletoc")+" H2",value:"2"},{label:(0,a.__)("Including","simpletoc")+" H1 ("+(0,a.__)("default","simpletoc")+")",value:"1"}],onChange:e=>t({min_level:Number(e)})})),(0,n.createElement)(_.PanelRow,null,(0,n.createElement)(_.SelectControl,{label:(0,a.__)("Maximum level","simpletoc"),help:(0,a.__)("Maximum depth of the headings.","simpletoc"),value:e.max_level,options:[{label:(0,a.__)("Including","simpletoc")+" H6 ("+(0,a.__)("default","simpletoc")+")",value:"6"},{label:(0,a.__)("Including","simpletoc")+" H5",value:"5"},{label:(0,a.__)("Including","simpletoc")+" H4",value:"4"},{label:(0,a.__)("Including","simpletoc")+" H3",value:"3"},{label:(0,a.__)("Including","simpletoc")+" H2",value:"2"},{label:(0,a.__)("Including","simpletoc")+" H1",value:"1"}],onChange:e=>t({max_level:Number(e)})})))),(0,n.createElement)(_.Panel,null,(0,n.createElement)(_.PanelBody,{title:(0,a.__)("Advanced Features","simpletoc"),icon:"settings",initialOpen:!1},(0,n.createElement)(_.PanelRow,null,(0,n.createElement)("div",{style:{marginBottom:"1em",border:"1px solid rgba(0, 0, 0, 0.05)",padding:"0.5em",backgroundColor:"#f7f7f7"}},(0,n.createElement)("p",null,(0,n.createElement)("strong",null,(0,a.__)("Think about making a donation if you use any of these features.","simpletoc"))),(0,n.createElement)(_.ExternalLink,{href:"https://marc.tv/out/donate"},(0,a.__)("Donate here!","simpletoc")))),(0,n.createElement)(_.PanelRow,null,(0,n.createElement)(_.ToggleControl,{label:(0,a.__)("Hide in accordion menu","simpletoc"),help:(0,a.__)("Adds minimal JavaScript and css styles.","simpletoc"),checked:e.accordion,onChange:()=>t({accordion:!e.accordion})})),(0,n.createElement)(_.PanelRow,null,(0,n.createElement)(_.ToggleControl,{label:(0,a.__)("Smooth scrolling support","simpletoc"),help:(0,a.__)('Adds the following CSS to the HTML element: "scroll-behavior: smooth;"',"simpletoc"),checked:e.add_smooth,onChange:()=>t({add_smooth:!e.add_smooth})})),(0,n.createElement)(_.PanelRow,null,(0,n.createElement)(_.ToggleControl,{label:(0,a.__)("Use absolute urls","simpletoc"),help:(0,a.__)("Adds the permalink url to the fragment.","simpletoc"),checked:e.use_absolute_urls,onChange:()=>t({use_absolute_urls:!e.use_absolute_urls})})),(0,n.createElement)(_.PanelRow,null,(0,n.createElement)(_.ToggleControl,{label:(0,a.__)("Wrapper div","simpletoc"),help:(0,a.__)('Additionally adds the role "navigation" and ARIA attributes.',"simpletoc"),checked:e.wrapper,onChange:()=>t({wrapper:!e.wrapper})})),(0,n.createElement)(_.PanelRow,null,(0,n.createElement)(_.ToggleControl,{label:(0,a.__)("Automatic refresh","simpletoc"),help:(0,a.__)("Automatic updating of the table of contents.","simpletoc"),checked:e.autoupdate,onChange:()=>t({autoupdate:!e.autoupdate})})))));return(0,n.createElement)("div",{...l},w,b,o&&r&&(m||g)?(0,n.createElement)(_.Spinner,null):(0,n.createElement)(s(),{block:"simpletoc/toc",attributes:e}))},save:function(){return null}})})();

diff --git a/src/edit.js b/src/edit.js
@@ -32,6 +32,13 @@ import './accordion.css';
 export default function Edit( { attributes, setAttributes } ) {
 	const blockProps = useBlockProps();
 
+	// Get the current option value.
+	const autoupdateOption = useSelect( ( select ) => {
+		const optionValue =
+			select( 'core' ).getSite()?.simpletoc_autoupdate_enabled;
+		return Boolean( optionValue ); // or use !!optionValue
+	}, [] );
+
 	const { autoupdate } = attributes;
 
 	const { returnisSaving, returnisSavingNonPostEntityChanges } = useSelect(
@@ -96,13 +103,16 @@ export default function Edit( { attributes, setAttributes } ) {
 					setAttributes( { remove_indent: false } );
 				} }
 			/>
-			{ ! attributes.autoupdate && (
-				<ToolbarButton
-					icon={ update }
-					label={ __( 'Update table of contents', 'simpletoc' ) }
-					onClick={ () => setAttributes( { updated: Date.now() } ) }
-				/>
-			) }
+			{ ! attributes.autoupdate ||
+				( ! autoupdateOption && (
+					<ToolbarButton
+						icon={ update }
+						label={ __( 'Update table of contents', 'simpletoc' ) }
+						onClick={ () =>
+							setAttributes( { updated: Date.now() } )
+						}
+					/>
+				) ) }
 		</BlockControls>
 	);
 
@@ -348,9 +358,9 @@ export default function Edit( { attributes, setAttributes } ) {
 					</PanelRow>
 					<PanelRow>
 						<ToggleControl
-							label={ __( 'Autoupdate', 'simpletoc' ) }
+							label={ __( 'Automatic refresh', 'simpletoc' ) }
 							help={ __(
-								'Enables the auto refresh of the toc.',
+								'Automatic updating of the table of contents.',
 								'simpletoc'
 							) }
 							checked={ attributes.autoupdate }
@@ -371,7 +381,8 @@ export default function Edit( { attributes, setAttributes } ) {
 			{ controls }
 			{ controlssidebar }
 			{ /* Conditional rendering based on autoupdate attribute */ }
-			{ autoupdate &&
+			{ autoupdateOption &&
+			autoupdate &&
 			( returnisSaving || returnisSavingNonPostEntityChanges ) ? (
 				<Spinner />
 			) : (

diff --git a/simpletoc-admin-settings.php b/simpletoc-admin-settings.php
@@ -1,8 +1,7 @@
 <?php
 
 // Add SimpleTOC global settings page
-function simpletoc_add_settings_page()
-{
+function simpletoc_add_settings_page() {
     add_options_page(
         __('SimpleTOC Settings', 'simpletoc'),
         __('SimpleTOC', 'simpletoc'),
@@ -14,8 +13,7 @@ function simpletoc_add_settings_page()
 add_action('admin_menu', 'simpletoc_add_settings_page');
 
 // SimpleTOC settings page content
-function simpletoc_settings_page()
-{
+function simpletoc_settings_page() {
     if (!current_user_can('manage_options')) {
         return;
     }
@@ -26,25 +24,21 @@ function simpletoc_settings_page()
         <form method="post" action="options.php">
             <?php
                 settings_fields('simpletoc_settings');
-    do_settings_sections('simpletoc');
-    submit_button();
-    ?>
+                do_settings_sections('simpletoc');
+                submit_button();
+            ?>
         </form>
     </div>
-<?php
+    <?php
 }
 
 // Register SimpleTOC settings
-function simpletoc_register_settings()
-{
+function simpletoc_register_settings() {
+    // Register settings and filters for existing features
     $wrapper_enabled_filter = apply_filters('simpletoc_wrapper_enabled', null);
     $accordion_enabled_filter = apply_filters('simpletoc_accordion_enabled', null);
     $smooth_enabled_filter = apply_filters('simpletoc_smooth_enabled', null);
     $absolute_urls_enabled_filter = apply_filters('simpletoc_absolute_urls_enabled', null);
-
-    if ($absolute_urls_enabled_filter === null) {
-        register_setting('simpletoc_settings', 'simpletoc_absolute_urls_enabled');
-    }
 
     if ($wrapper_enabled_filter === null) {
         register_setting('simpletoc_settings', 'simpletoc_wrapper_enabled');
@@ -58,6 +52,21 @@ function simpletoc_register_settings()
         register_setting('simpletoc_settings', 'simpletoc_smooth_enabled');
     }
 
+    if ($absolute_urls_enabled_filter === null) {
+        register_setting('simpletoc_settings', 'simpletoc_absolute_urls_enabled');
+    }
+
+    // Register setting for autoupdate feature
+    $autoupdate_enabled_filter = apply_filters('simpletoc_autoupdate_enabled', null);
+    if ($autoupdate_enabled_filter === null) {
+        $defaults = array(
+            'show_in_rest' => true,
+            'default' => true
+        );
+        register_setting('simpletoc_settings', 'simpletoc_autoupdate_enabled', $defaults );
+    }
+
+    // Add settings sections and fields
     add_settings_section(
         'simpletoc_wrapper_section',
         __('Global settings', 'simpletoc'),
@@ -81,7 +90,6 @@ function simpletoc_register_settings()
         'simpletoc_wrapper_section'
     );
 
-
     add_settings_field(
         'simpletoc_smooth_enabled',
         __('Force smooth scrolling', 'simpletoc'),
@@ -94,6 +102,15 @@ function simpletoc_register_settings()
         'simpletoc_absolute_urls_enabled',
         __('Force absolute urls', 'simpletoc'),
         'simpletoc_absolute_urls_enabled_callback',
+        'simpletoc',
+        'simpletoc_wrapper_section'
+    );
+
+    // Add the autoupdate settings field
+    add_settings_field(
+        'simpletoc_autoupdate_enabled',
+        __('Enable TOC Autoupdate', 'simpletoc'),
+        'simpletoc_autoupdate_enabled_callback',
         'simpletoc',
         'simpletoc_wrapper_section'
     );
@@ -147,4 +164,11 @@ function simpletoc_absolute_urls_enabled_callback()
     $absolute_urls_enabled = get_option('simpletoc_absolute_urls_enabled', false);
     echo '<input type="checkbox" name="simpletoc_absolute_urls_enabled" id="simpletoc_absolute_urls_enabled" value="1" ' . checked(1, $absolute_urls_enabled, false) . ' />';
     echo '<label for="simpletoc_absolute_urls_enabled" class="description">' . __('Adds the permalink url to the fragment.', 'simpletoc') . '</label>';
+}
+
+function simpletoc_autoupdate_enabled_callback()
+{
+    $autoupdate_enabled = get_option('simpletoc_autoupdate_enabled', true);
+    echo '<input type="checkbox" name="simpletoc_autoupdate_enabled" id="simpletoc_autoupdate_enabled" value="1" ' . checked(1, $autoupdate_enabled, false) . ' />';
+    echo '<label for="simpletoc_autoupdate_enabled" class="description">' . __('Automatic updating of the table of contents.', 'simpletoc') . '</label>';
 }

diff --git a/build/index.asset.php b/build/index.asset.php
@@ -1,1 +1,1 @@
-<?php return array('dependencies' => array('react', 'wp-block-editor', 'wp-blocks', 'wp-components', 'wp-data', 'wp-editor', 'wp-element', 'wp-i18n', 'wp-primitives', 'wp-server-side-render'), 'version' => 'de37826b0b827cb86a2d');
+<?php return array('dependencies' => array('react', 'wp-block-editor', 'wp-blocks', 'wp-components', 'wp-data', 'wp-editor', 'wp-element', 'wp-i18n', 'wp-primitives', 'wp-server-side-render'), 'version' => '83a72e27f0da141aa26b');
